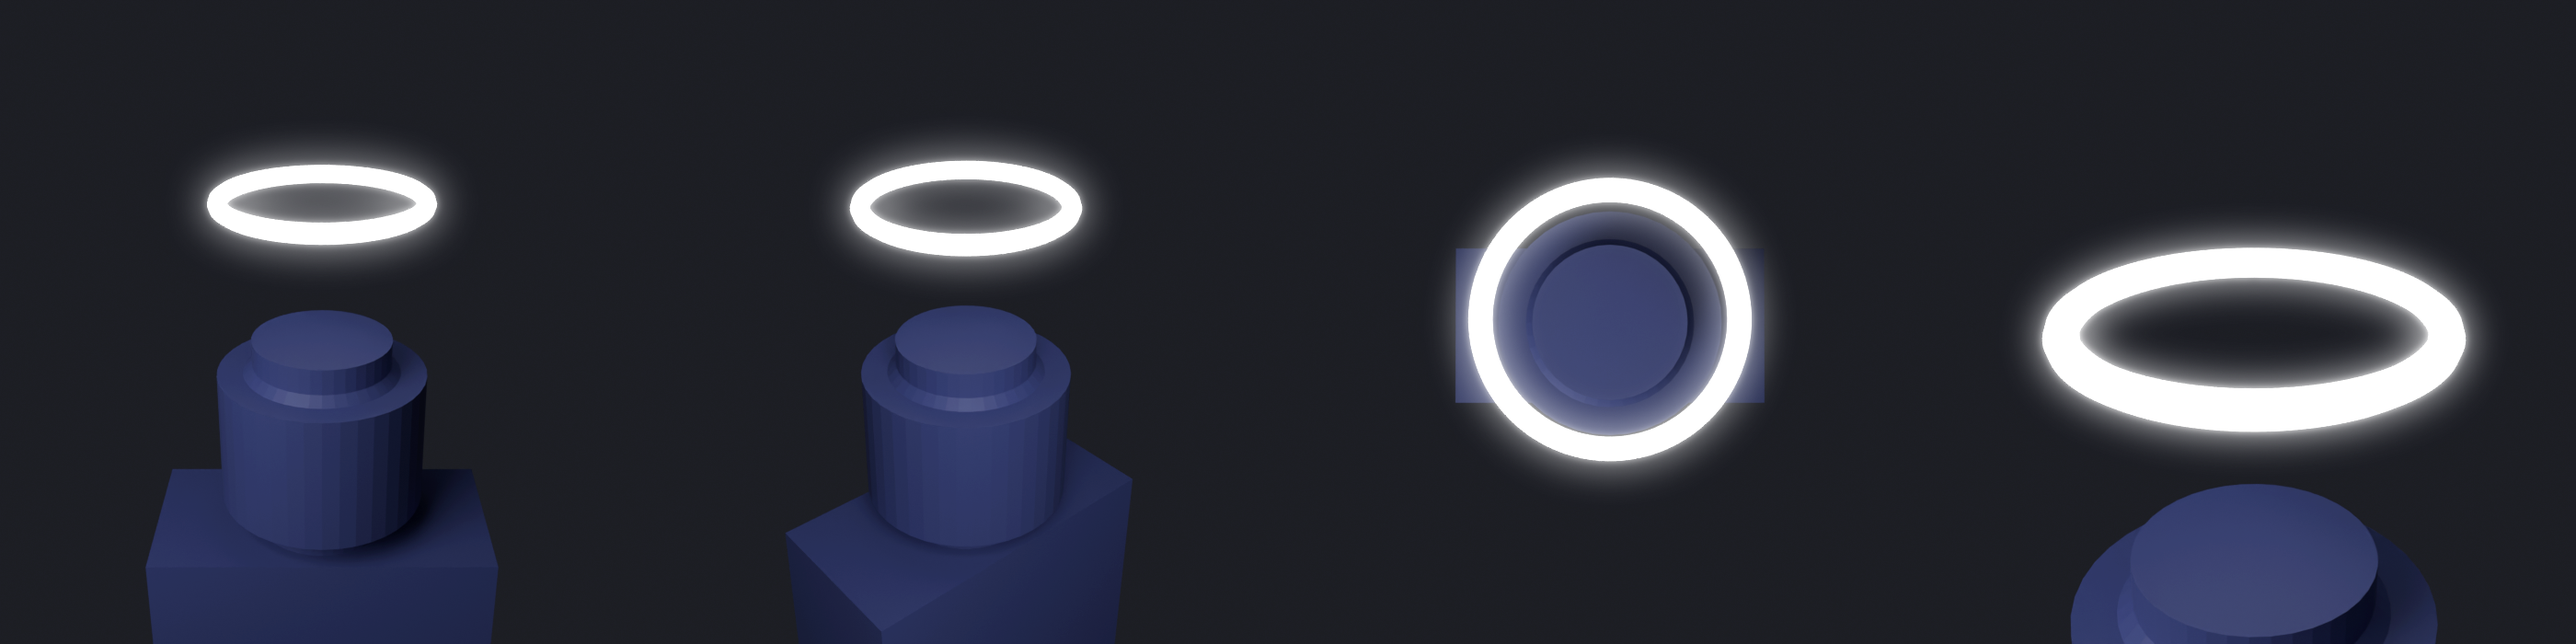
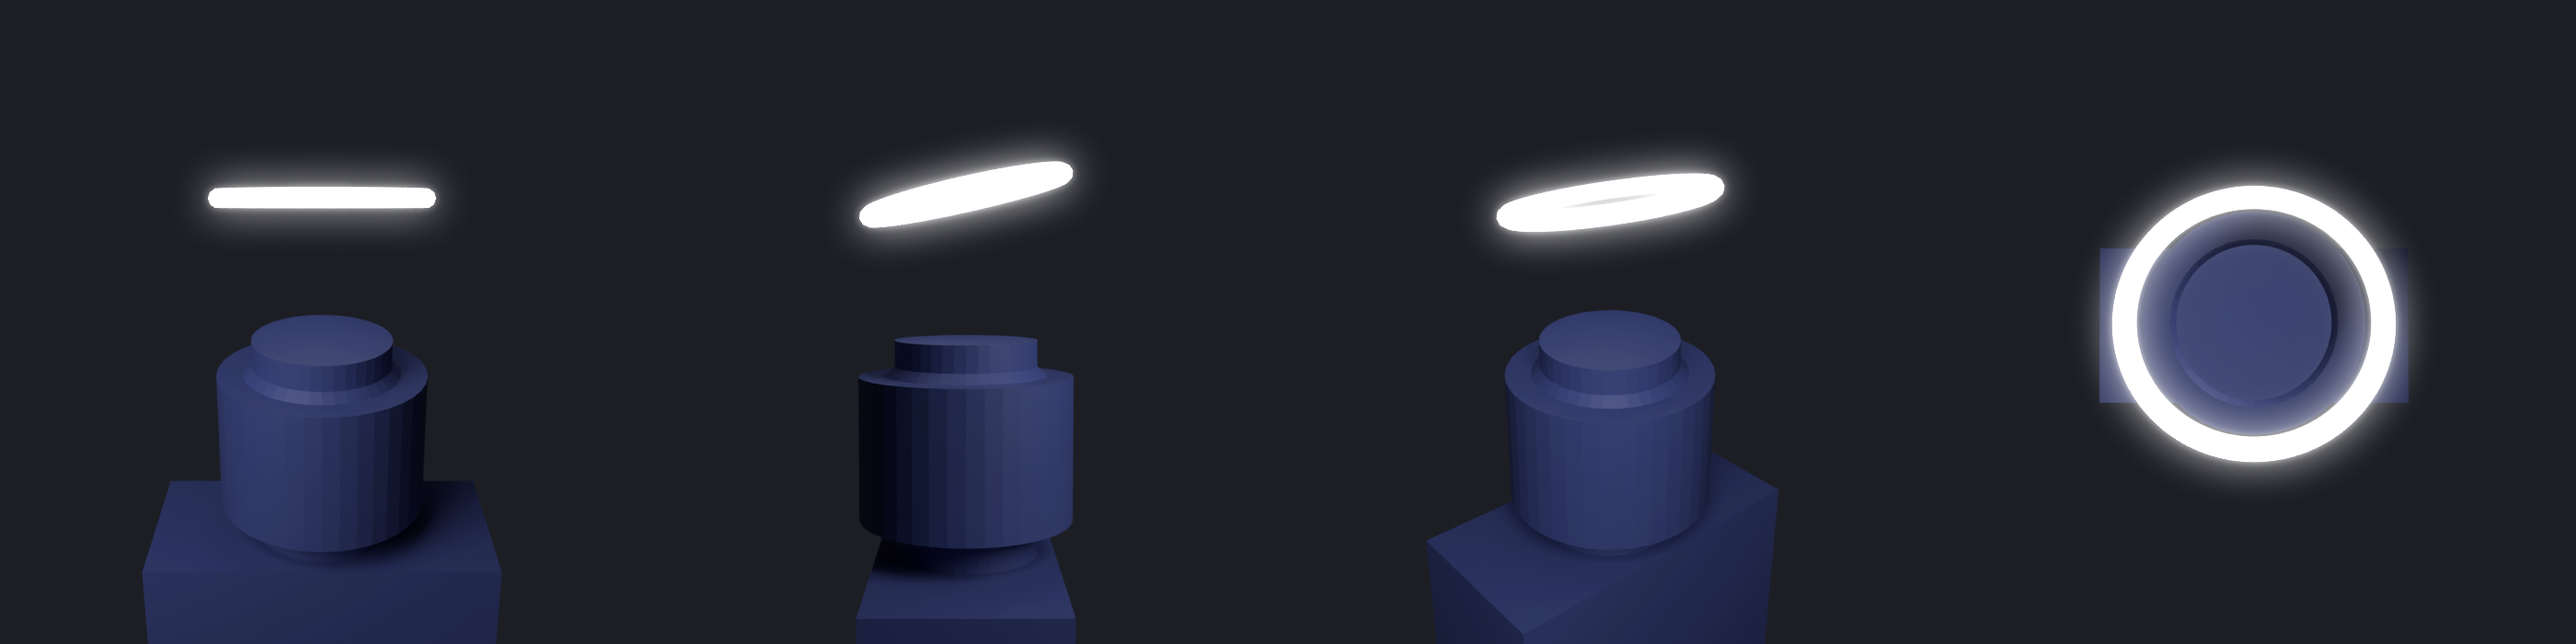
Angel halo: tilt 12.5 deg (front edge higher) as measured on the reference video
Claude-Session: https://claude.ai/code/session_01M8xpJeZPsNE3rcjNjv2sRU

diff --git a/angel_halo/tools/build.py b/angel_halo/tools/build.py
@@ -22,9 +22,15 @@ ob=bpy.data.objects.new('AngelHalo_UGC',me); sc.collection.objects.link(ob)
 nl=[]
 for v in me.vertices:
     c=Vector((v.co.x,v.co.y,0)).normalized()*R; nl.append(tuple((v.co-c).normalized()))
+# tilt measured on the reference video: 12.5 deg, front edge (-Y) higher than the back edge, no sideways roll
+from mathutils import Matrix as _M
+TILT=math.radians(12.5); RT=_M.Rotation(-TILT,3,'X')
+for v in me.vertices: v.co=RT@v.co
+nl=[tuple(RT@Vector(n)) for n in nl]
 me.normals_split_custom_set_from_vertices(nl)
 # roundness check: every vertex exactly on the torus
-dev=max(abs((Vector((v.co.x,v.co.y,0)).normalized()*R-v.co).length-r) for v in me.vertices)
+RTi=RT.inverted(); dev=max(abs((Vector(((RTi@v.co).x,(RTi@v.co).y,0)).normalized()*R-(RTi@v.co)).length-r) for v in me.vertices)
+fz=max(v.co.z for v in me.vertices if v.co.y<-0.5); bz=min(v.co.z for v in me.vertices if v.co.y>0.5); print('front edge z',round(fz,3),'back edge z',round(bz,3))
 print('tris',len(me.polygons),'verts',len(me.vertices),'max deviation from torus',dev,'outer diameter',2*(R+r),'tube diameter',2*r)
 # textures
 S=256
@@ -53,9 +59,9 @@ w=bpy.data.worlds.new('w'); sc.world=w; w.use_nodes=True; w.node_tree.nodes['Bac
 l=bpy.data.lights.new('k','AREA'); l.energy=250; l.size=4; Lo=bpy.data.objects.new('k',l); sc.collection.objects.link(Lo); Lo.location=(-3,-4,5); Lo.rotation_euler=(Lo.location-Vector((0,0,2))).to_track_quat('Z','Y').to_euler()
 cam=bpy.data.objects.new('c',bpy.data.cameras.new('c')); sc.collection.objects.link(cam); sc.camera=cam; cam.data.lens=50
 RES=700; sc.render.engine='CYCLES'; sc.cycles.samples=32; sc.render.resolution_x=RES; sc.render.resolution_y=RES; sc.view_settings.view_transform='Standard'
-tg=Vector((0,0,2.3)); views={'front':(0,24,5.0),'34':(-40,28,5.0),'top':(0,89,4.5),'close':(20,22,2.6)}
+tg=Vector((0,0,2.3)); views={'front':(0,20,5.0),'side':(-90,3,5.0),'34':(-40,24,5.0),'top':(0,89,4.5)}
 for n,(az,el,dist) in views.items():
-    t=tg if n!='close' else Vector((0,0,ZH))
+    t=tg
     A=math.radians(az); e=math.radians(el)
     cam.location=t+Vector((math.sin(A)*math.cos(e)*dist,-math.cos(A)*math.cos(e)*dist,math.sin(e)*dist)); cam.rotation_euler=(cam.location-t).to_track_quat('Z','Y').to_euler()
     sc.render.filepath=f'{D}/p_{n}.png'; bpy.ops.render.render(write_still=True)
